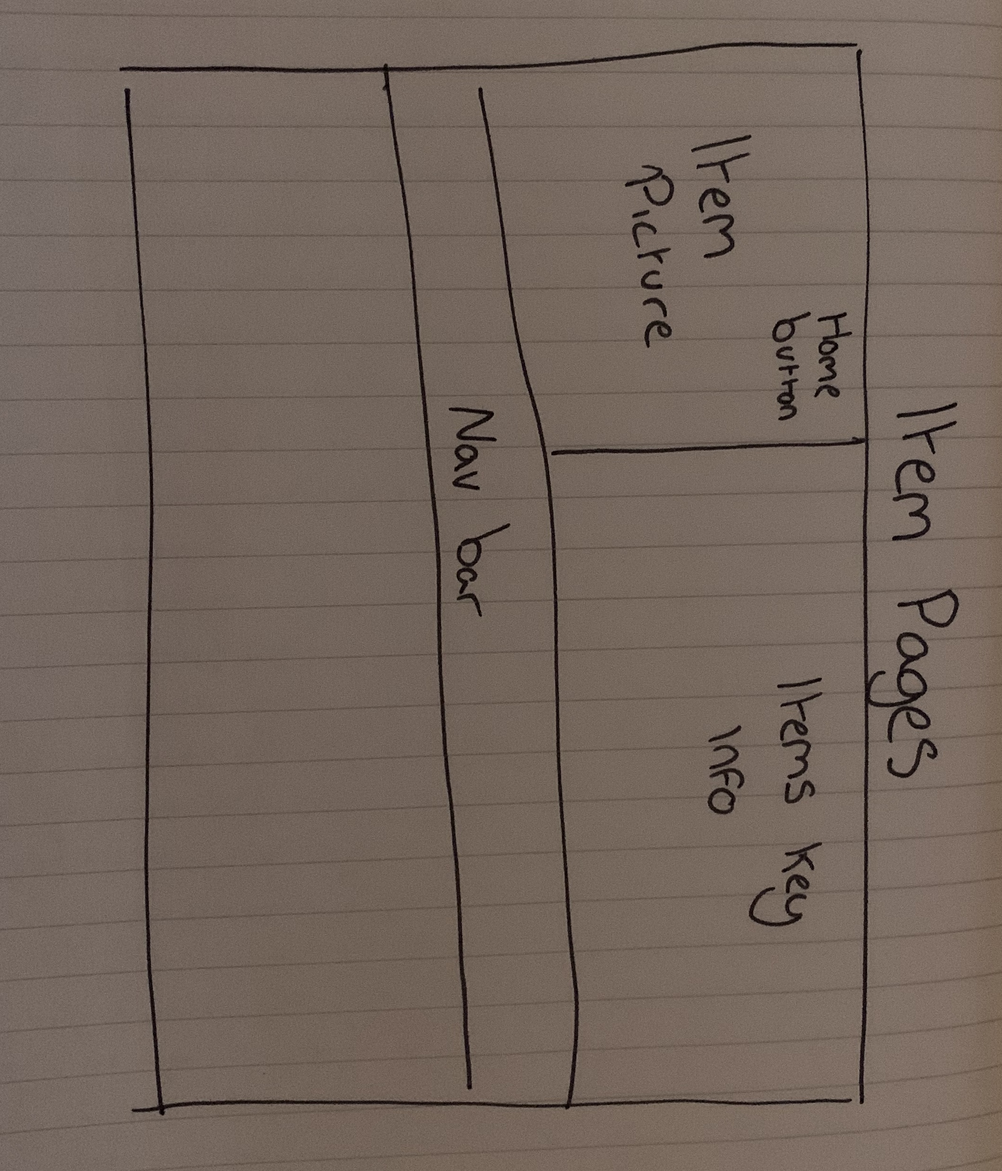
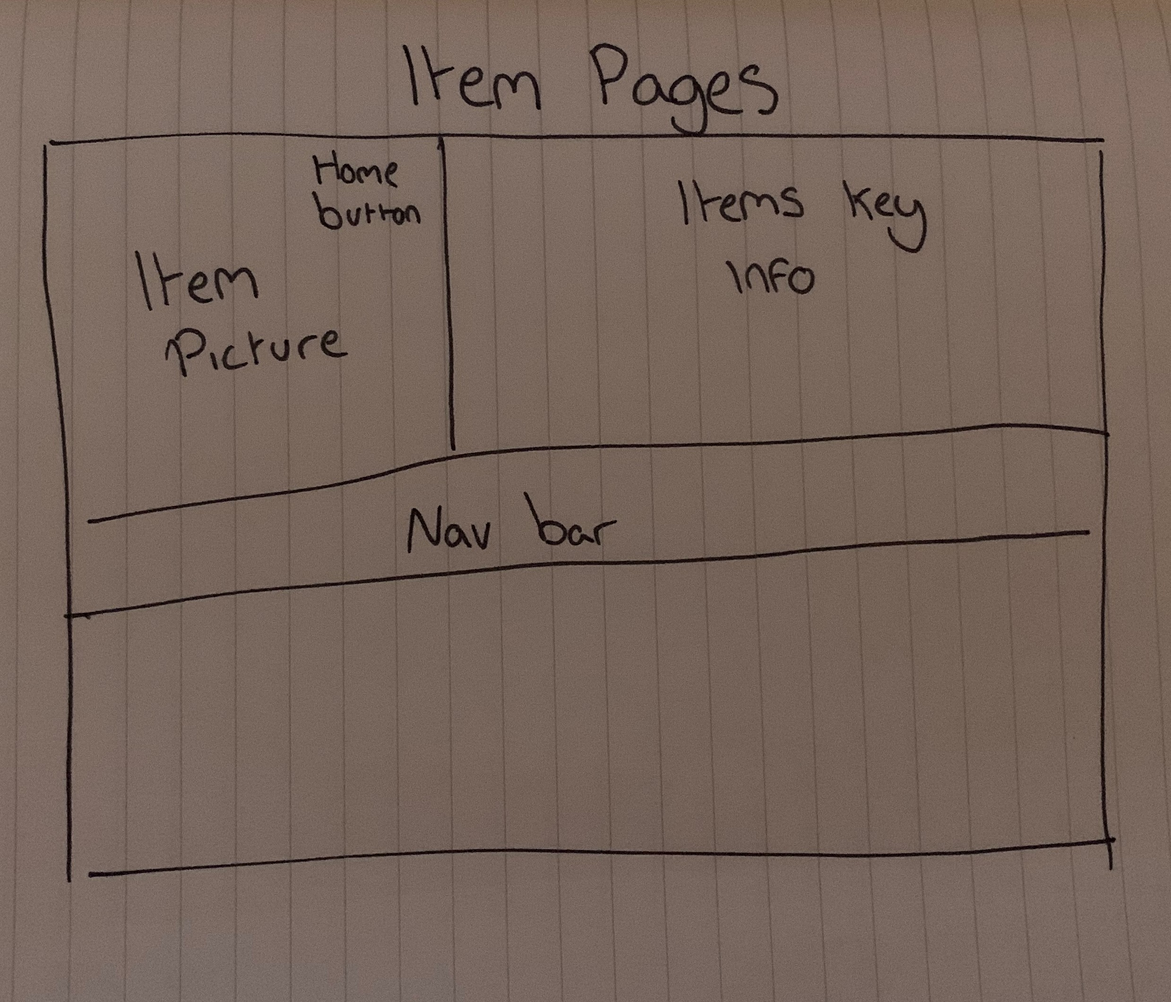
-Fixed wireframe images to fit

diff --git a/readme.md b/readme.md
@@ -14,7 +14,7 @@ This website is made for the people of the TAG Heuer boutique and would like to 
 
 The design is done specifically as to be on brand, this is so that the website can be used in brand specific stores.
 
-The Index page is designed to almost mimic the TAG Heuer logo ![TAG logo](https://upload.wikimedia.org/wikipedia/commons/thumb/d/de/TAG_Heuer_Logo.svg/1024px-TAG_Heuer_Logo.svg.png) and to be very quick getting the user to where they want to be. It does this using a distinctive image from each of the collections so that the intended user can easily navigate.
+The Index page is designed to almost mimic the TAG Heuer logo, and to be very quick getting the user to where they want to be. It does this using a distinctive image from each of the collections so that the intended user can easily navigate.
 
 ## Features
 
@@ -42,8 +42,8 @@ I deployed my site to GitHub Pages from the Master branch, so that it will autom
 
 All information on the product pages were taken from [TagHeuer](https://tagheuer.com/), along with all pictures used across the website. All code was written by me.
 I created some wireframes that I based this website on:
-<img src="assets/images/wireframe_home.jpg" width="100">
-<img src="assets/images/wireframe_watch_info.jpg" width="100">
+<img src="assets/images/wireframe_home.jpg" width="200">
+<img src="assets/images/wireframe_watch_info.jpg" width="200">
 
 ### Media
 
